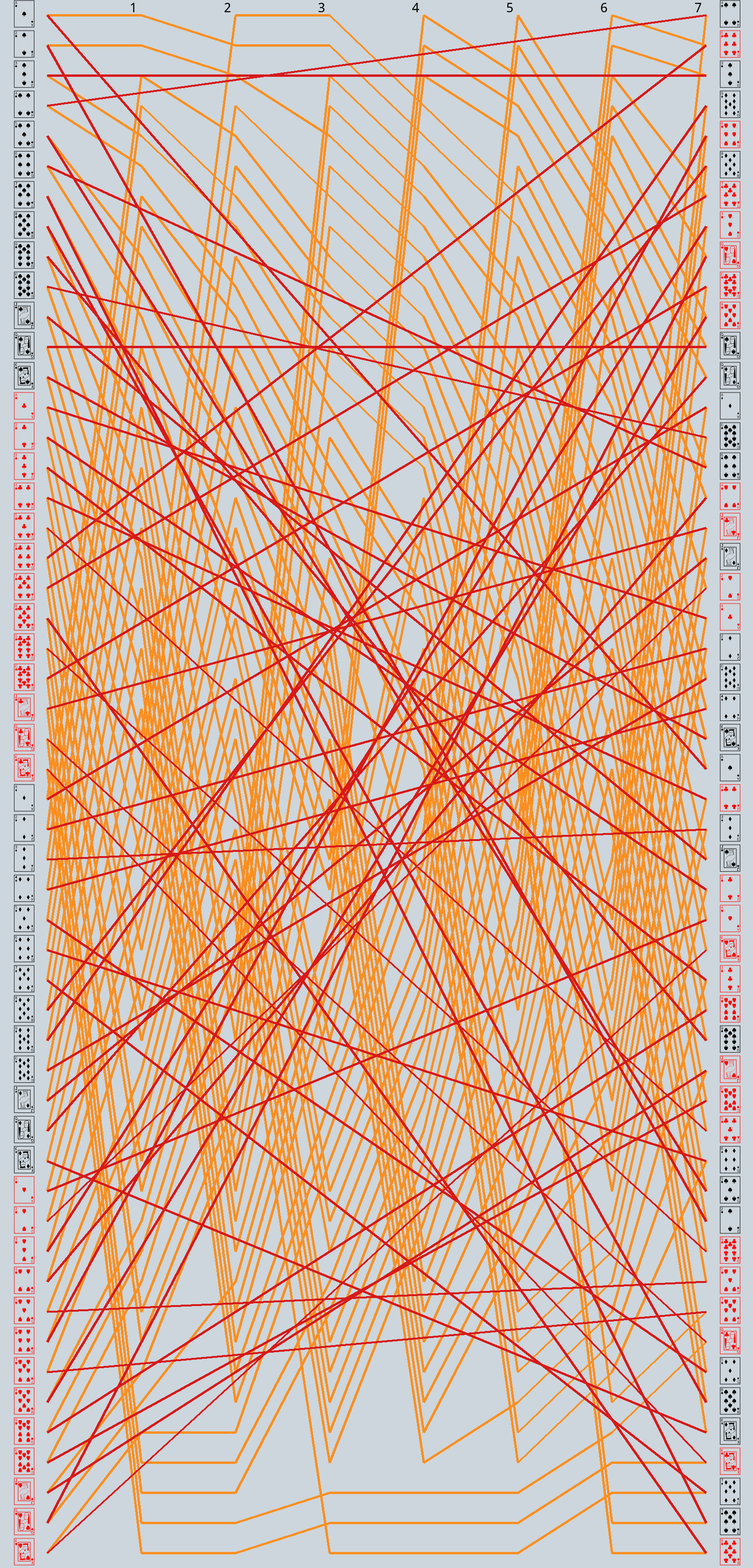
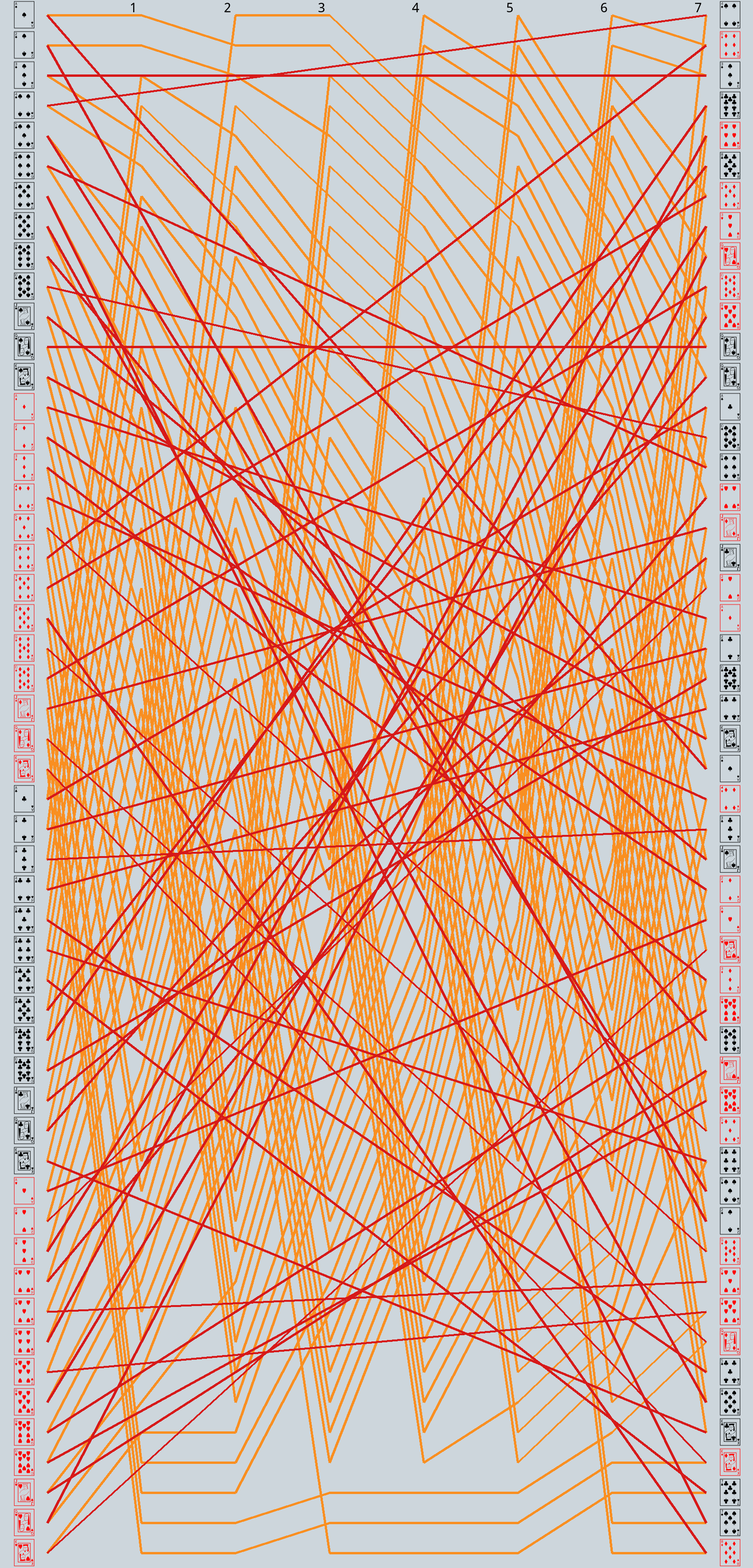
Fix card order and spacing

diff --git a/shuffle_plot.py b/shuffle_plot.py
@@ -11,9 +11,9 @@ lineColour = (249,143,33)
 finalLineColour =  (215,25,25)
 backgroundColour =  (205,214,220)
 textColour = (0, 0, 0)
-font = ImageFont.truetype("./CARDS.TTF", 48)
+cardFont = ImageFont.truetype("./CARDS.TTF", 48) # https://freefontsdownload.net/free-playing_cards-font-16939.htm
 cards = pandas.read_csv(filename)
-textFont = ImageFont.truetype("/usr/share/fonts/truetype/noto/NotoMono-Regular.ttf", 28)
+textFont = ImageFont.truetype("/usr/share/fonts/truetype/noto/NotoMono-Regular.ttf", 28) # Change this for a suitable system font
 
 #for col in cards:
 numCards = len(pandas.unique(cards['1']))
@@ -25,12 +25,12 @@ draw = ImageDraw.Draw(plot)
 nodes = []
 i = 0
 startingOrder = list(cards['1'])
-cardNames = "abcdefghijklmnopqrstuvwxyzABCDEFGHIJKLMNOPQRSTUVWXYZ"
+cardNames = "abcdefghijklmABCDEFGHIJKLMnopqrstuvwxyzNOPQRSTUVWXYZ" # Order this to suit the cardFont
 for card in startingOrder:
     x = nodeSize[0]/2
     y = nodeSize[1]/2 + (i * nodeSize[1])
     cardColour = (255, 0, 0) if (card[0] == 'H' or card[0] == 'D') else (0, 0, 0)
-    draw.text((x/4, y - nodeSize[1]/2), cardNames[i], fill=cardColour, font=font)
+    draw.text((x/4, y - nodeSize[1]/2 + 2), cardNames[i], fill=cardColour, font=cardFont)
     nodes.append((x, y))
     i += 1
     cards.replace(card, i, inplace=True)
@@ -56,7 +56,7 @@ for finalPos in nodes:
     x, y = finalPos
     y -= nodeSize[1]/2
     cardColour = (255, 0, 0) if (startingOrder[i][0] == 'H' or startingOrder[i][0] == 'D') else (0, 0, 0)
-    draw.text((x + nodeSize[0]/8, y), cardNames[i], fill=cardColour, font=font)
+    draw.text((x + nodeSize[0]/8, y + 2), cardNames[i], fill=cardColour, font=cardFont)
     i += 1
 
 plot.save('shuffles.png', quality=95)
